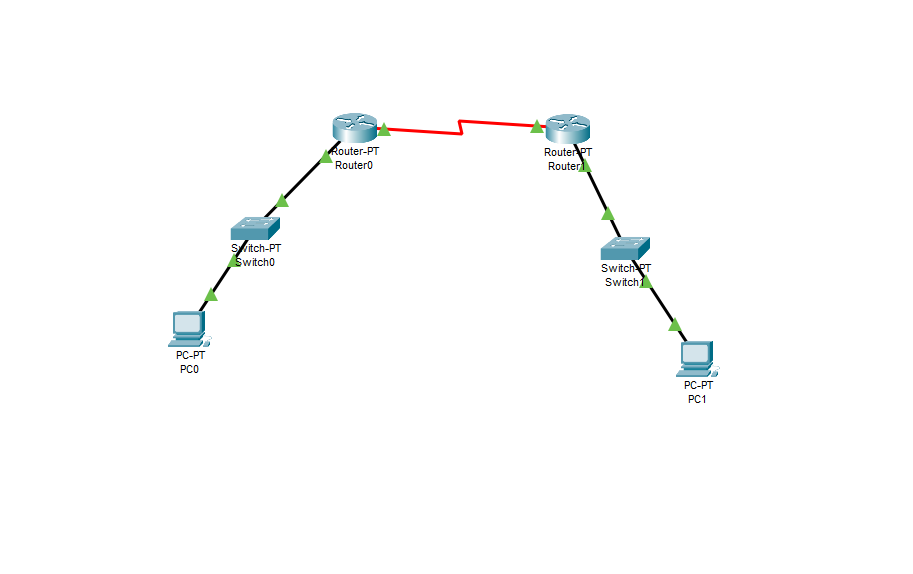
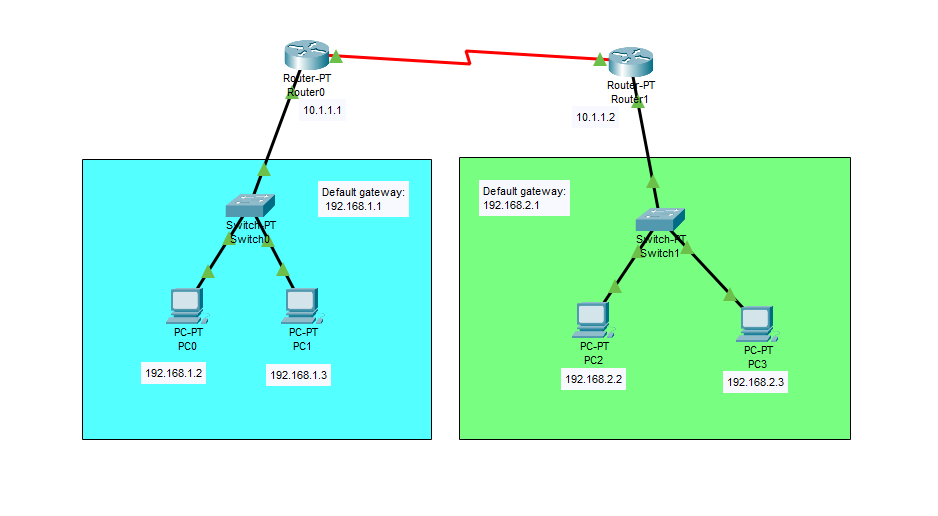
updated the content of the website

diff --git a/docs/index.md b/docs/index.md
@@ -16,7 +16,7 @@ Switch:
 
 PC:
 - PC Model Name: PC-PT
-- Quantity: 2
+- Quantity: 4
 
 ## Configure IP Addresses
 **IP Addressing Table For PCs**:
@@ -26,7 +26,17 @@ PC0:
 - Default Gateway: 192.168.1.1
 
 PC1:
+- IPv4 Address: 192.168.1.3
+- Subnet Mask: 255.255.255.0
+- Default Gateway: 192.168.1.1
+
+PC2:
 - IPv4 Address: 192.168.2.2
+- Subnet Mask: 255.255.255.0
+- Default Gateway: 192.168.2.1
+
+PC3:
+- IPv4 Address: 192.168.2.3
 - Subnet Mask: 255.255.255.0
 - Default Gateway: 192.168.2.1
 
@@ -39,7 +49,7 @@ Router1:
 - Serial2/0: 10.1.1.2 255.255.255.0
 - FastEthernet0/0: 192.168.2.1 255.255.255.0
 
-Configure the IP addresses for the two PCs.
+Configure the IP addresses for the four PCs.
 
 PC0:
 ```
@@ -48,7 +58,17 @@ ipconfig 192.168.1.2  255.255.255.0 192.168.1.1
 
 PC1:
 ```
+ipconfig 192.168.1.3  255.255.255.0 192.168.1.1
+```
+
+PC2:
+```
 ipconfig 192.168.2.2  255.255.255.0 192.168.2.1
+```
+
+PC3:
+```
+ipconfig 192.168.2.3  255.255.255.0 192.168.2.1
 ```
 
 Configure the IP addresses for the two routers.
@@ -89,19 +109,77 @@ Router(config)#ip route 192.168.1.0 255.255.255.0 10.1.1.1
 ```
 
 ## Check Connectivity Between PCs
-Ping each PC to check if the two PCs can communicate with each other. Go to Desktop -> Command Prompt.
+Ping each PC to check if the four PCs can communicate with each other.
 
-PC0:
+Ping PCs from PC0
+
+PC0 -> PC1:
+```
+ping 192.168.1.3
+```
+
+PC0 -> PC2:
 ```
 ping 192.168.2.2
 ```
 
-PC1:
+PC0 -> PC3:
+```
+ping 192.168.2.3
+```
+
+Ping PCs from PC1
+
+PC1 -> PC0:
 ```
 ping 192.168.1.2
 ```
 
-Both of them should work. Congratulations, you setup a WAN network. 
+PC1 -> PC2:
+```
+ping 192.168.2.2
+```
+
+PC1 -> PC3:
+```
+ping 192.168.2.3
+```
+
+Ping PCs from PC2
+
+PC2 -> PC3:
+```
+ping 192.168.2.3
+```
+
+PC2 -> PC0:
+```
+ping 192.168.1.2
+```
+
+PC2 -> PC1:
+```
+ping 192.168.1.3
+```
+
+Ping PCs from PC3
+
+PC3 -> PC2:
+```
+ping 192.168.2.2
+```
+
+PC3 -> PC0:
+```
+ping 192.168.1.2
+```
+
+PC3 -> PC1:
+```
+ping 192.168.1.3
+```
+
+These should work. Congratulations, you setup a WAN network.
 
 ## Resources
 - [Implementation of Static Routing in Cisco - 2 Router Connections](https://www.geeksforgeeks.org/computer-networks/implementation-of-static-routing-in-cisco-2-router-connections/)
